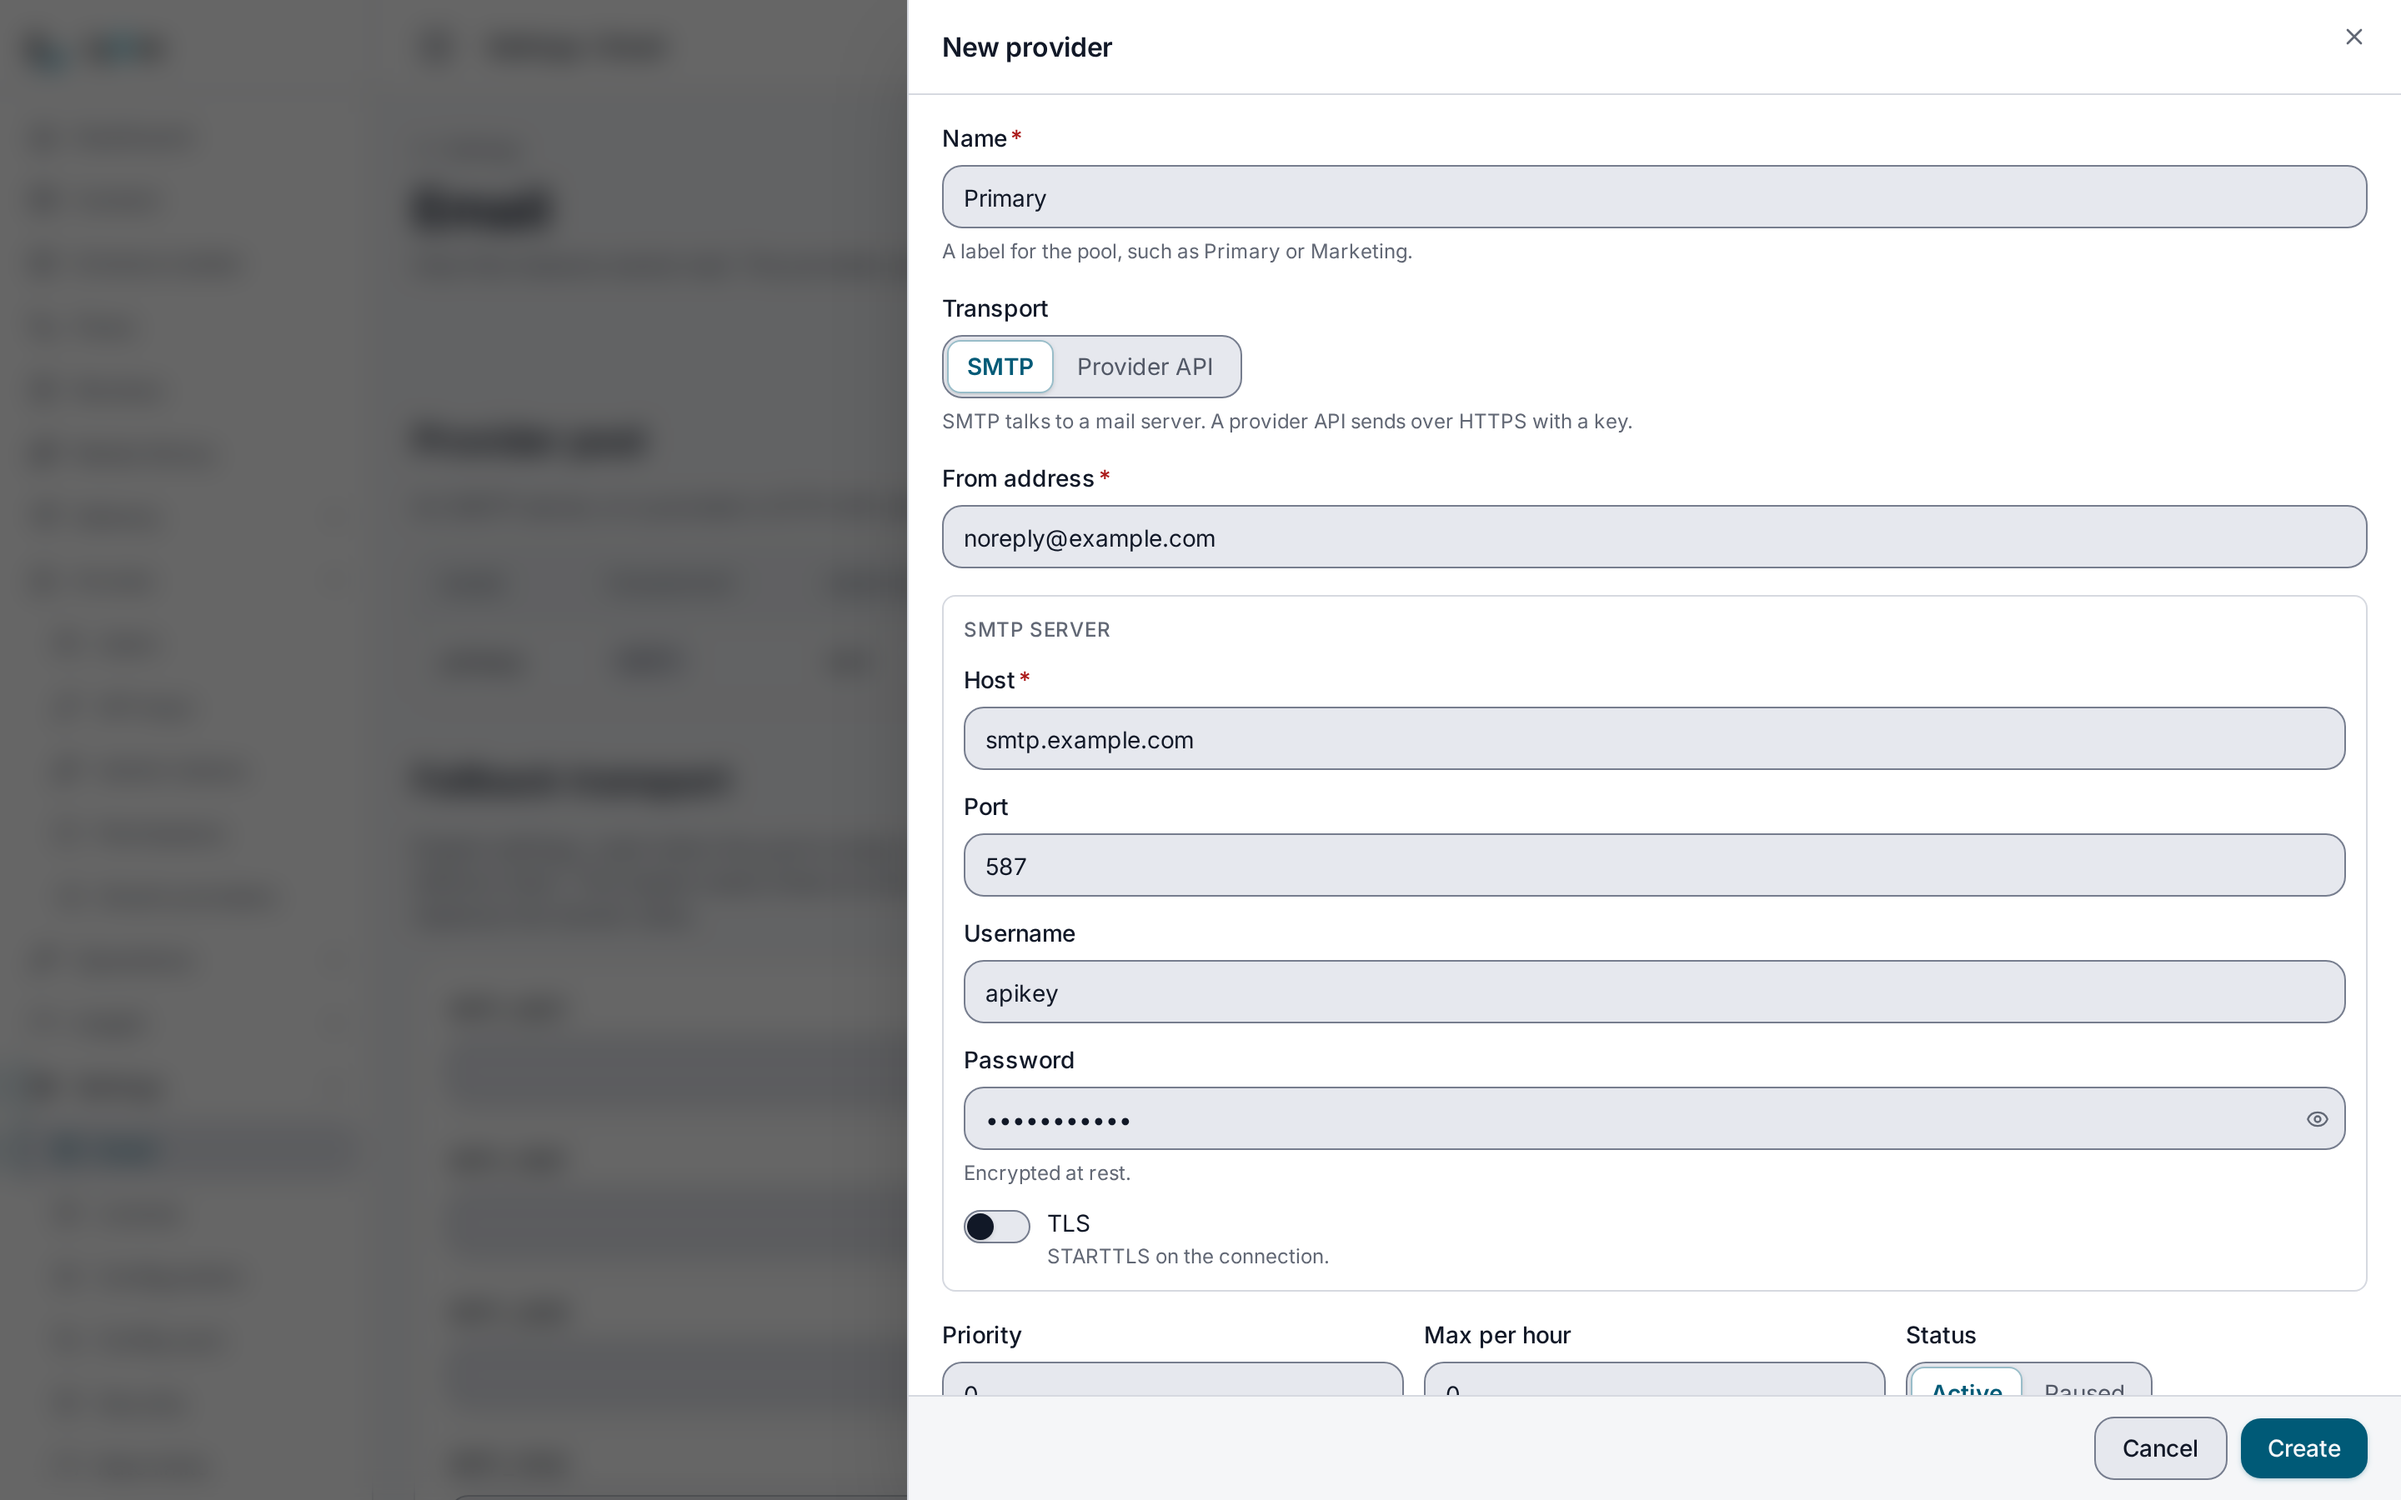
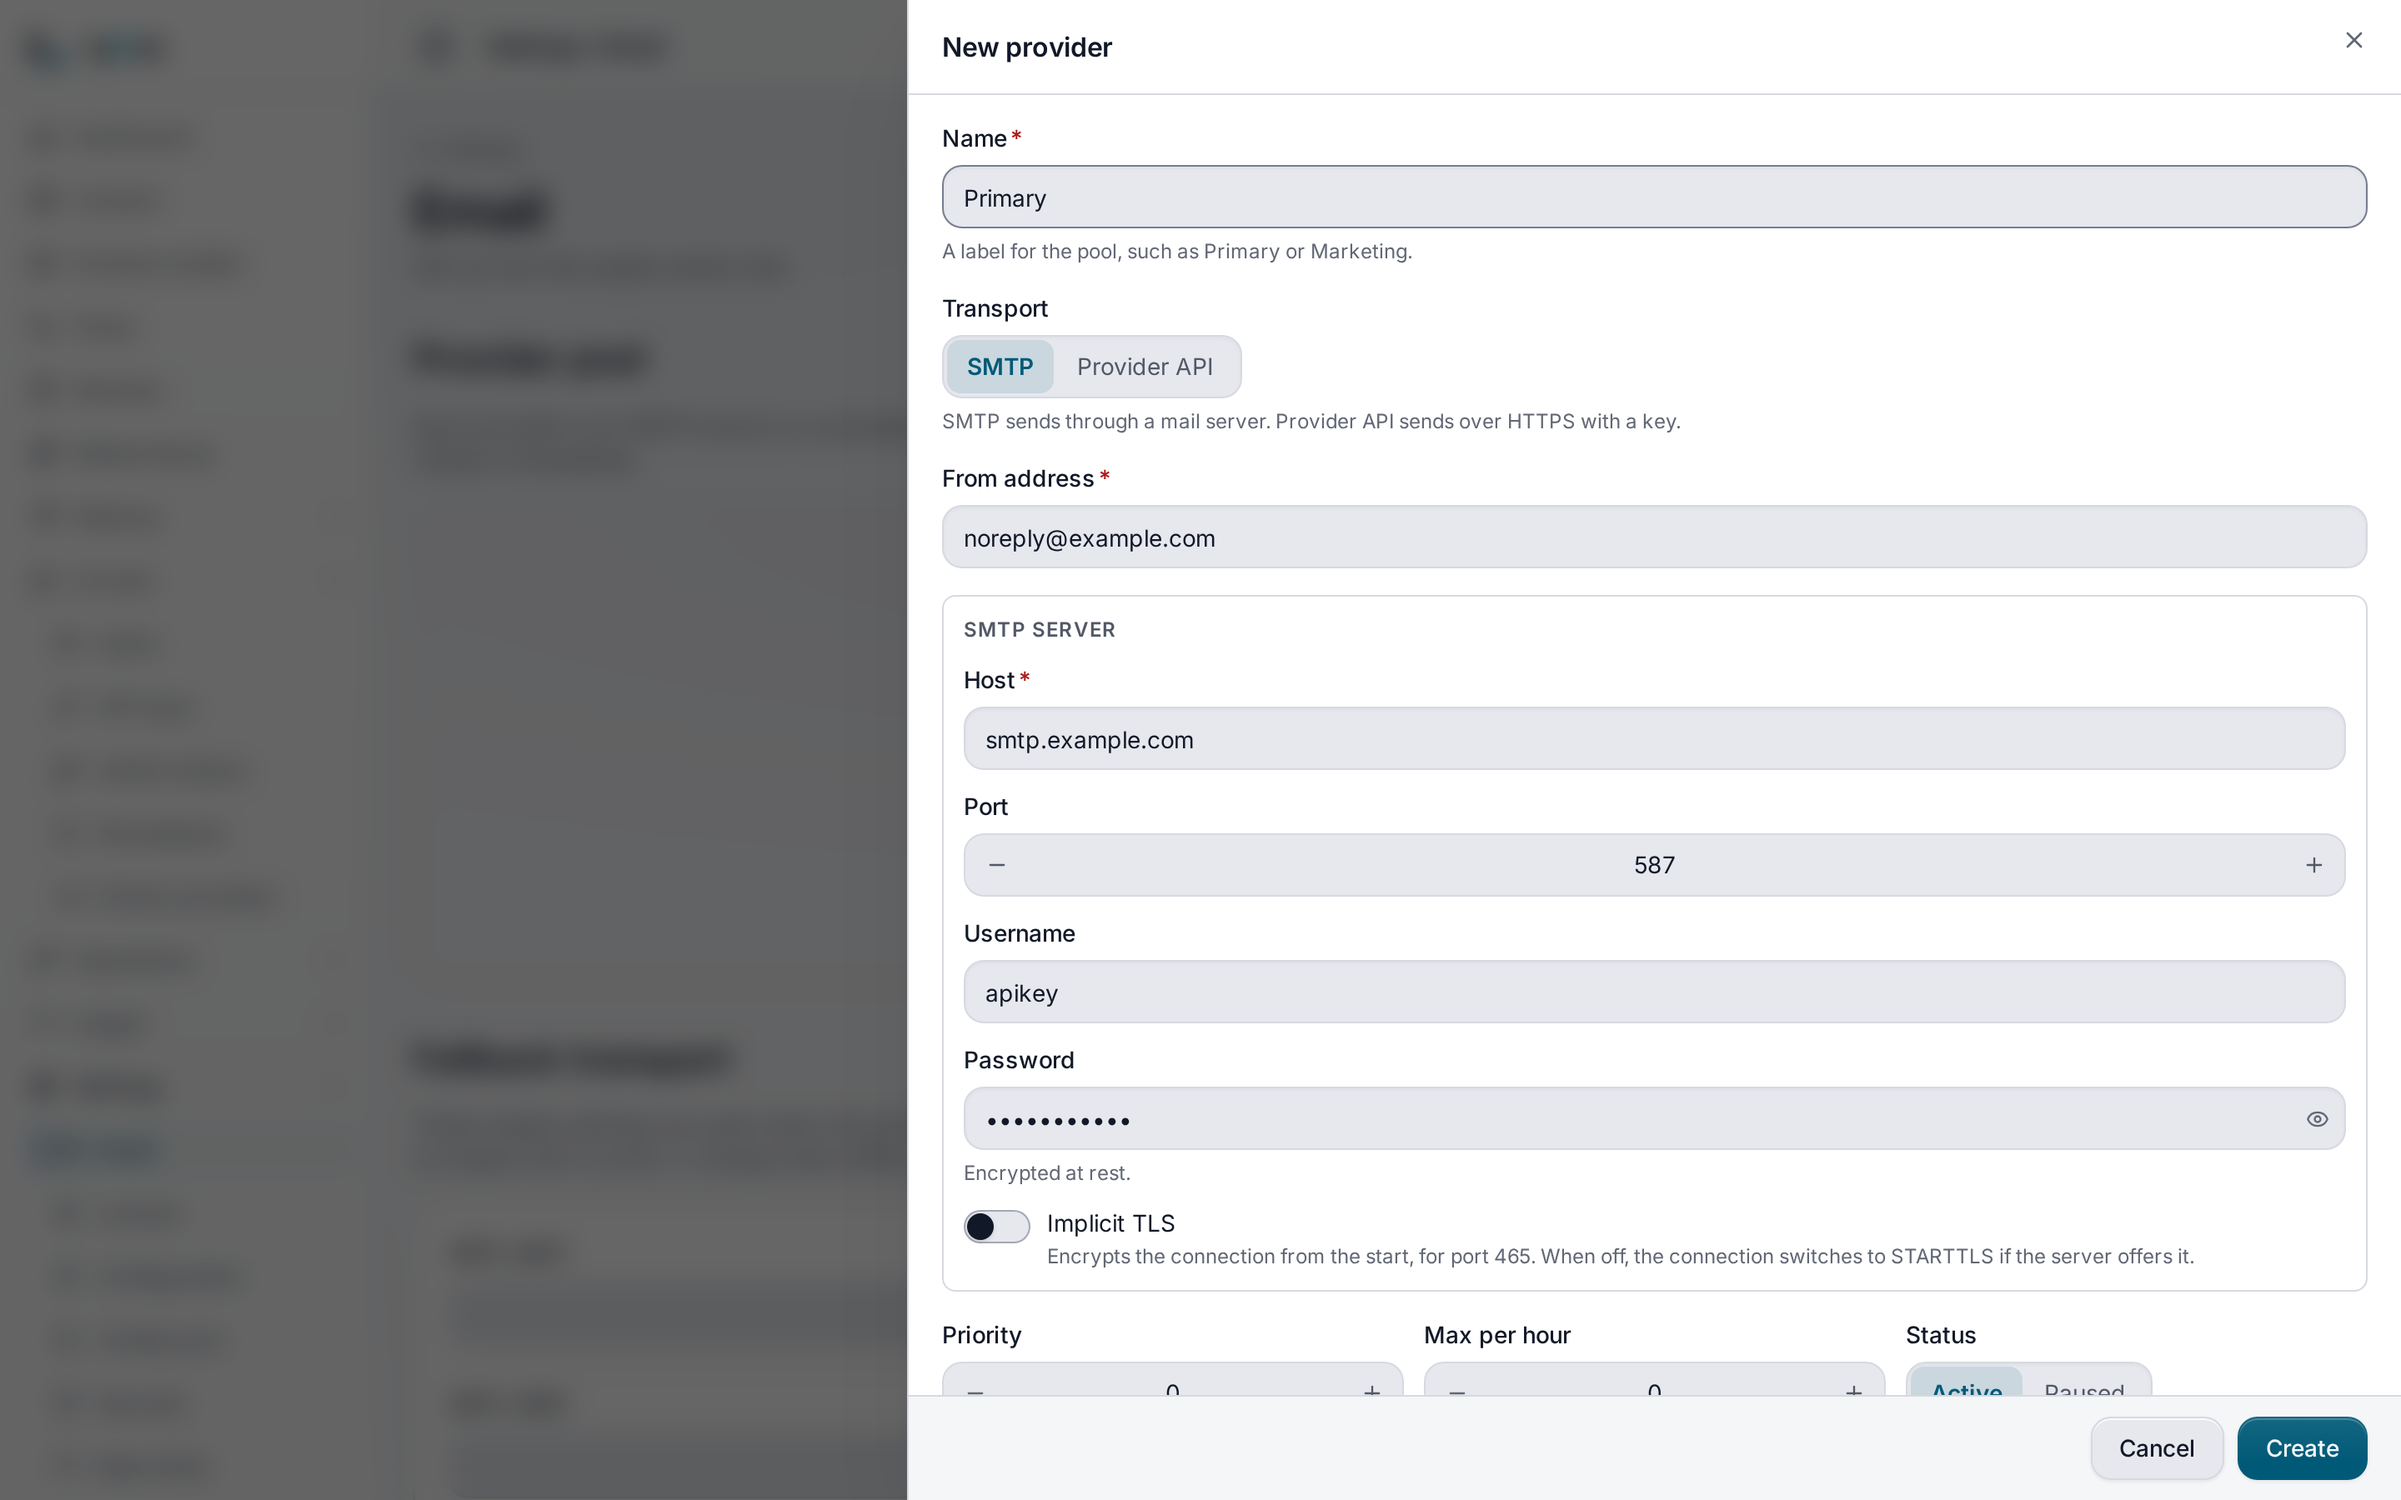
docs(email): describe the Implicit TLS switch
The switch is labeled Implicit TLS and starts off, and STARTTLS is used when it is off and the server offers it. The screenshot shows the released form.

Task: TASK-SJ8CB2QH2GX

diff --git a/docs/features/email.md b/docs/features/email.md
@@ -61,13 +61,14 @@ here joins the pool at once. **Fallback transport**, below the pool, holds the
 engine reads those at boot, so a change saved there takes effect at the next
 restart.
 
-The **TLS** switch on an SMTP provider is on by default and turns on implicit
-TLS, usually on port 465, although its hint reads "STARTTLS on the
-connection". Turn it off for a relay that starts in plain text, such as one on
-port 587 or a local mail catcher. With it on, sending to such a relay fails
-with `TLS handshake: first record does not look like a TLS handshake`.
+The **Implicit TLS** switch on an SMTP provider starts off. Turn it on for a
+server that expects TLS from the first byte, usually on port 465. Leave it off
+for a relay that starts in plain text, such as one on port 587 or a local mail
+catcher. Off, the connection upgrades with STARTTLS when the server offers it.
+With it on, sending to such a relay fails with
+`TLS handshake: first record does not look like a TLS handshake`.
 
-![The New provider form with the SMTP transport, the from address noreply@example.com, the host smtp.example.com on port 587, a username, a hidden password and TLS turned off.](images/email.png)
+![The New provider form with the SMTP transport, the from address noreply@example.com, the host smtp.example.com on port 587, a username, a hidden password and the Implicit TLS switch turned off.](images/email.png)
 
 **Templates**, at the top of the page, opens **Email templates**: every
 template with its subject and status, and how many of the tenant's templates
